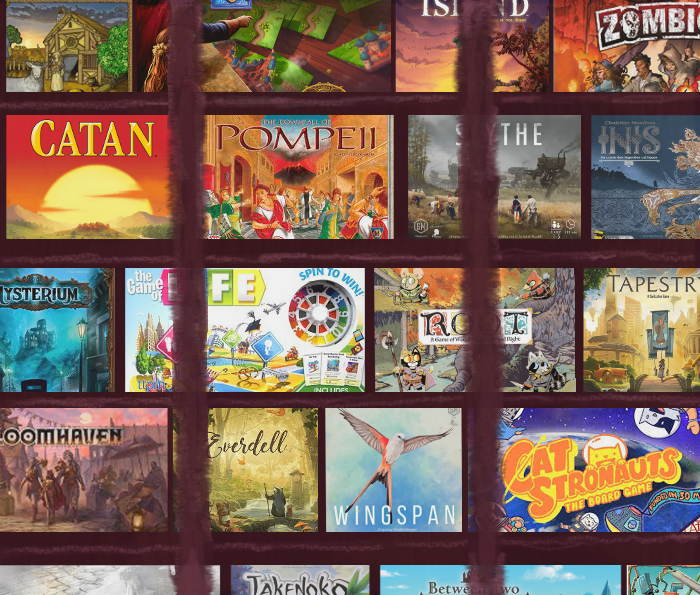
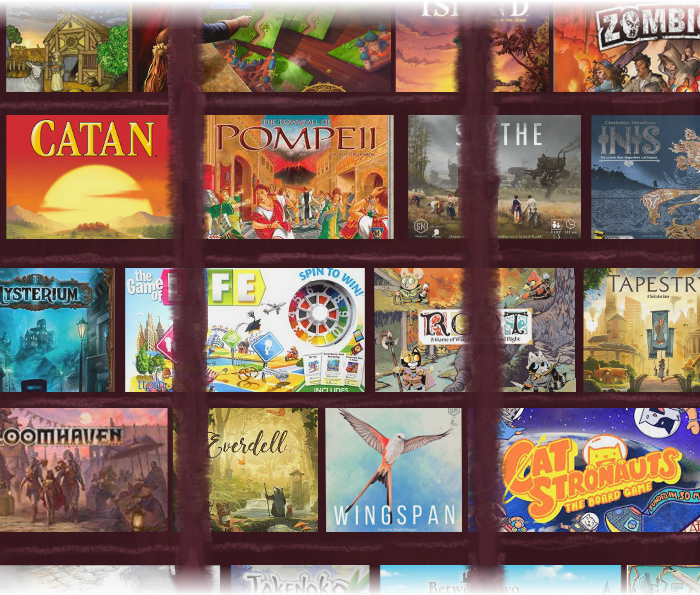
Add a subtle gradient to the splash image and a minor change to the README

Changed region(s): [[0.0, 0.9378, 1.0, 1.0], [0.0, 0.0, 1.0, 0.0605]]

diff --git a/README.md b/README.md
@@ -4,7 +4,7 @@ CSC 425 final project - a digital boardgame storefront.
 
 ## Overview
 
-A library manager for boardgames built with Vite/React and Express.js. A user friendly app that allows anyone, from beginners to experts, to be able to easily search and discover new board games they might enjoy.
+A library manager for boardgames, built with Vite/React and Express.js. A user friendly app that allows anyone, from beginners to experts, to be able to easily search and discover new board games they might enjoy.
 
  Finding new board games to play can be hard and intimidating for a new hobbyist, and expensive if you don’t end up actually enjoying it. Tapping into this market, we can allow game publishers to advertise their games on our app and one day, perhaps, users may buy directly from our app rather than Amazon or another third party. Board game enthusiasts and newbies alike can use the app to their advantage.
 
